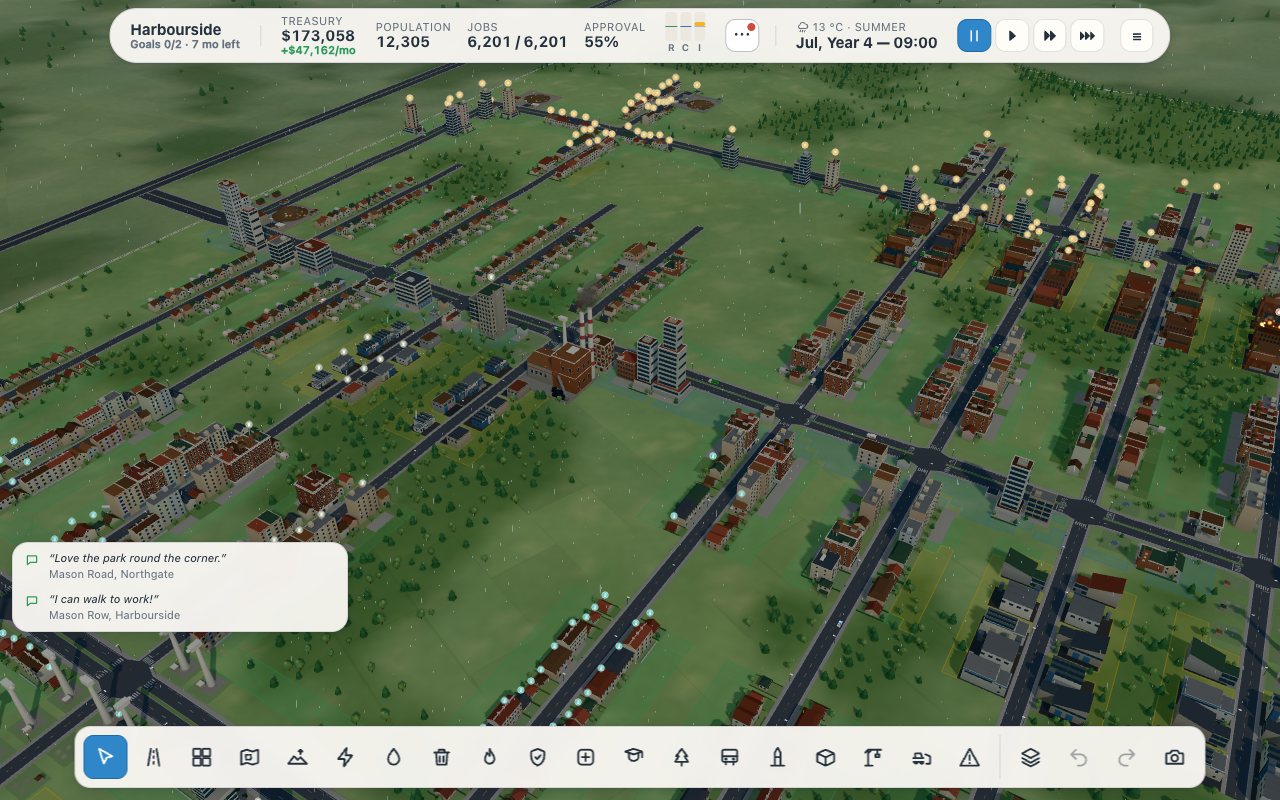
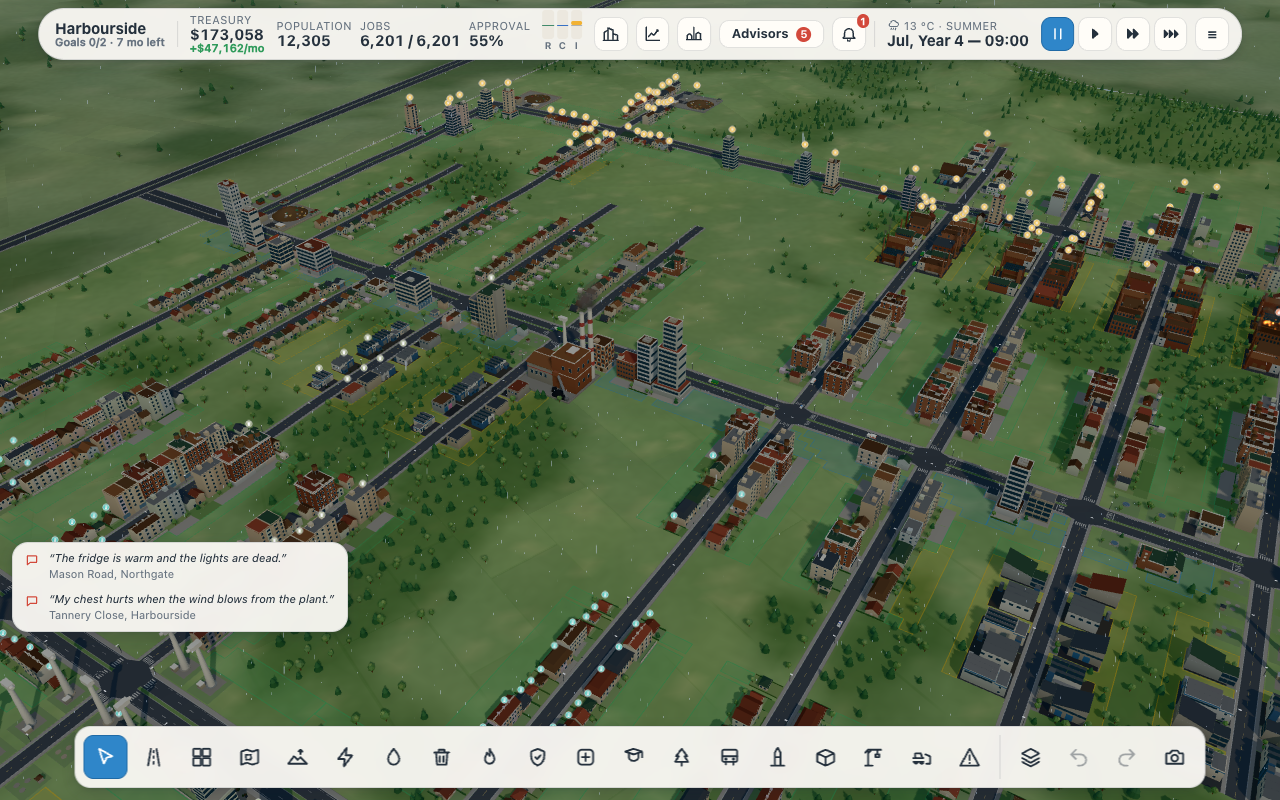
P6: a scenario's top bar closes its gaps up below 90 rem instead of folding at 1280
The first P6 commit folded a scenario's top bar into the More menu up to 90 rem, which moved
Region, City and the rest behind a button at the usual 1280 px window (m23-region clicks
open-region there). Now data-bars='tight' only gives a scenario bar the tighter gaps the
narrower sizes use, which is enough for the Harbourside bar at 1280 (name, goals line and every
button visible); the fold stays below 72.5 rem. The e2e checks all five buttons are in the bar
at 1280 in a scenario.

diff --git a/src/ui/styles/main.css b/src/ui/styles/main.css
@@ -1394,9 +1394,15 @@ body {
 }
 
 /*
- * The top bar folds its lesser buttons into a More menu while the bars are compact, and in a scenario
- * (its Goals button is wide) while they are tight too (data-bars, see src/ui/layout.ts).
+ * A scenario's Goals button (the name over its progress) is the widest item in the bar: up to 90 rem
+ * (data-bars='tight') a scenario's bar uses the tight gaps of the narrower sizes.
  */
+#ui[data-bars='tight'] .topbar.scenario {
+  gap: var(--space-2);
+  padding: 0 var(--space-3);
+}
+
+/* The top bar folds its lesser buttons into a More menu while the bars are compact (data-bars). */
 .topbar-more,
 .topbar-panels {
   display: contents;
@@ -1404,18 +1410,18 @@ body {
 .topbar .btn.more-toggle {
   display: none;
 }
-:is(#ui[data-bars='compact'] .topbar, #ui[data-bars='tight'] .topbar.scenario) .topbar-more {
+#ui[data-bars='compact'] .topbar-more {
   display: flex;
   position: relative;
   flex-shrink: 0;
 }
-:is(#ui[data-bars='compact'] .topbar, #ui[data-bars='tight'] .topbar.scenario) .more-toggle {
+#ui[data-bars='compact'] .more-toggle {
   display: inline-grid;
   position: relative;
   font-size: var(--font-size-lg);
   line-height: 1;
 }
-:is(#ui[data-bars='compact'] .topbar, #ui[data-bars='tight'] .topbar.scenario) .topbar-panels {
+#ui[data-bars='compact'] .topbar-panels {
   display: none;
   position: absolute;
   top: calc(100% + var(--space-3));
@@ -1425,12 +1431,11 @@ body {
   padding: var(--space-2);
   z-index: 5;
 }
-:is(#ui[data-bars='compact'] .topbar, #ui[data-bars='tight'] .topbar.scenario) .topbar-panels.open {
+#ui[data-bars='compact'] .topbar-panels.open {
   display: flex;
 }
 /* A folded button's badge (an urgent advisor, a new notification) still shows, as a dot. */
-:is(#ui[data-bars='compact'] .topbar, #ui[data-bars='tight'] .topbar.scenario)
-  .more-toggle:has(~ .topbar-panels .badge)::after {
+#ui[data-bars='compact'] .more-toggle:has(~ .topbar-panels .badge)::after {
   content: '';
   position: absolute;
   top: 3px;
@@ -1441,7 +1446,7 @@ body {
   background: var(--color-negative);
 }
 /* Over the panels the top bar's own pop-ups sit under (z-hud against z-panel). */
-#ui:is([data-bars='compact'], [data-bars='tight']) .topbar:has(.topbar-panels.open) {
+#ui[data-bars='compact'] .topbar:has(.topbar-panels.open) {
   z-index: var(--z-modal);
 }
 

diff --git a/src/ui/layout.ts b/src/ui/layout.ts
@@ -5,8 +5,8 @@ export type BarsClass = 'compact' | 'tight' | 'full';
 
 /** Window width in scaled rem (pixels over 16 times the interface scale) below which the bars fold. */
 export const COMPACT_BELOW_REM = 72.5;
-/** Below this a scenario's top bar folds too: its Goals button (name and progress) is the widest item. */
-export const SCENARIO_FOLD_BELOW_REM = 90;
+/** Below this a scenario's top bar closes its gaps up: its Goals button (name and progress) is the widest item. */
+export const SCENARIO_TIGHT_BELOW_REM = 90;
 
 /**
  * Size class of the interface for a window `rem` wide in scaled rem (`#ui[data-width]`): layouts
@@ -19,12 +19,12 @@ export function widthClass(rem: number): WidthClass {
 /**
  * `#ui[data-bars]`: `compact` below the width the bottom toolbar needs, when it wraps onto two rows
  * and the top bar folds its lesser buttons into the More menu; `tight` up to the width a scenario's
- * top bar needs, when only a scenario's top bar folds; `full` above. The toolbar is about 70.7 rem of
+ * top bar needs, when only a scenario's top bar closes its gaps up; `full` above. The toolbar is about 70.7 rem of
  * buttons plus its margins, so raise `COMPACT_BELOW_REM` if a tool is added (the e2e in
  * fix-layout.spec.ts fails when the toolbar clips at 1160 px).
  */
 export function barsClass(rem: number): BarsClass {
-  return rem < COMPACT_BELOW_REM ? 'compact' : rem < SCENARIO_FOLD_BELOW_REM ? 'tight' : 'full';
+  return rem < COMPACT_BELOW_REM ? 'compact' : rem < SCENARIO_TIGHT_BELOW_REM ? 'tight' : 'full';
 }
 
 /**

diff --git a/e2e/fix-layout.spec.ts b/e2e/fix-layout.spec.ts
@@ -160,6 +160,12 @@ test.describe('P6: narrow windows keep the toolbar and the top bar', () => {
       );
       expect(badge, 'the scenario starts with advice, so the Advisors badge widens the bar').not.toBe('none');
       await expectBarsReachable(page, true);
+      // At the common laptop width the scenario bar needs no More menu: every button is in the bar
+      // (other specs click Region and City there), because the bar closes its gaps up instead.
+      if (w >= 1280) {
+        await expect(page.getByTestId('open-more')).toBeHidden();
+        for (const id of TOP_BUTTONS) await expect(page.getByTestId(id)).toBeVisible();
+      }
       // The goals button names the city and shows the goals: legible whole down to 1024, and at 768
       // cut short with an ellipsis, never squeezed to nothing.
       const goals = await page.evaluate(() => {

diff --git a/tests/layout.test.ts b/tests/layout.test.ts
@@ -6,7 +6,7 @@ describe('interface size classes', () => {
     expect([59.9, 60, 67.9, 68, 77.9, 78].map(widthClass)).toEqual(['xs', 's', 's', 'm', 'm', 'l']);
   });
 
-  it('wraps the toolbar below the width its buttons need, and folds a scenario bar below 90 rem', () => {
+  it('wraps the toolbar below the width its buttons need, and tightens a scenario top bar below 90 rem', () => {
     // 1160 px at the normal interface size: the toolbar is 70.7 rem of buttons plus margins.
     expect([59.9, 67.9, 72.4].map(barsClass)).toEqual(['compact', 'compact', 'compact']);
     expect([72.5, 77.9, 89.9].map(barsClass)).toEqual(['tight', 'tight', 'tight']);
